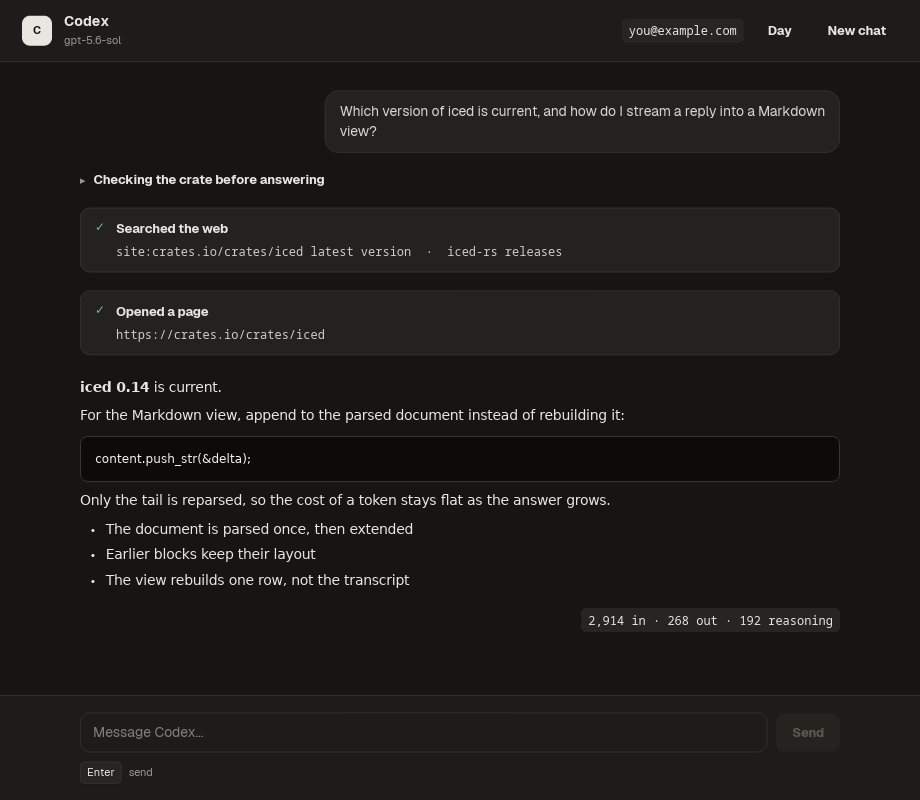
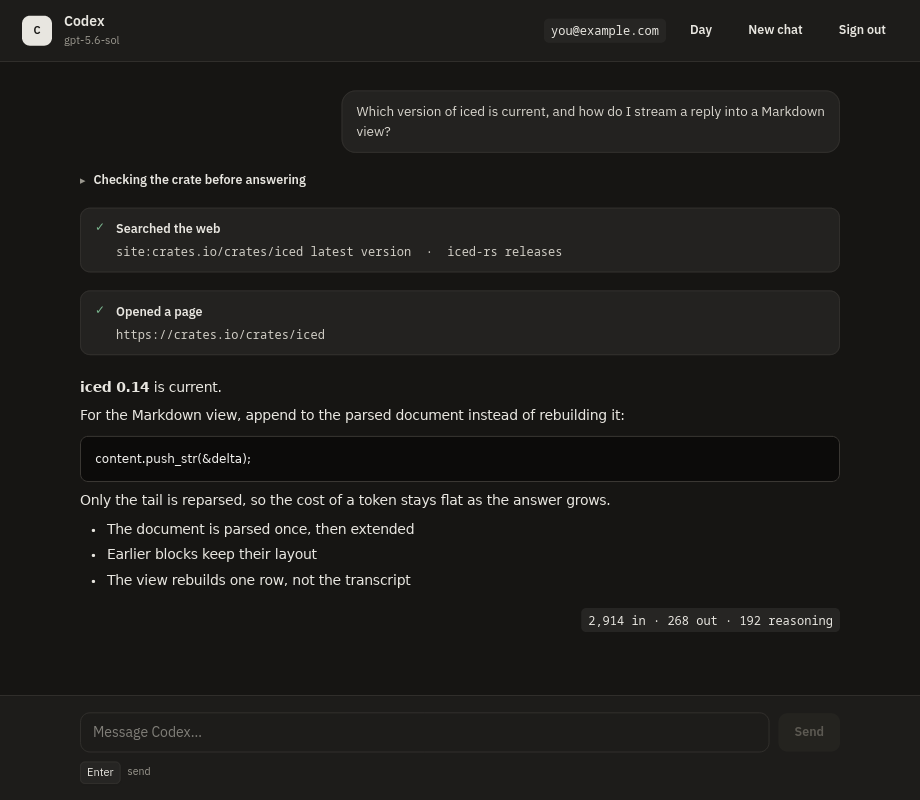
fix(ai-chat): set the window in a face that has the weights it asks for
Geist ships Regular and Bold here and no SemiBold, so every
`font-semibold` in the design system resolved to full Bold — which is why
the labels and headings read as shouting. It also has no Hangul, so a
Korean message rendered as a row of tofu boxes: not ugly, unreadable.

IBM Plex Sans KR answers both. It carries a real SemiBold, so the weight
the recipes ask for is the weight that is drawn, and it covers Hangul, so
the language this window is most likely to be used in arrives as words.
Monoplex KR follows for code, matched to it and covering Hangul too. Both
are already in this repository, licensed, and used by the Markdown editor.

Screenshots redrawn in it.

diff --git a/examples/ai-chat/src/render.rs b/examples/ai-chat/src/render.rs
@@ -17,7 +17,7 @@ use iced::widget::{column, container, rich_text, scrollable};
 use iced::{Color, Element, Font, Length, Padding, border};
 
 /// Mirrors the `code` font declared in `src/ui/app.ice`.
-const MONO: &str = "Geist Mono";
+const MONO: &str = "Monoplex KR";
 
 /// Link and inline-code colours, following `src/ui/theme.ice`. They are here
 /// rather than passed per row because a colour is a property of the palette,
